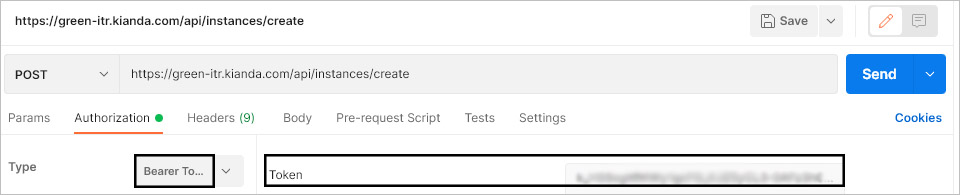
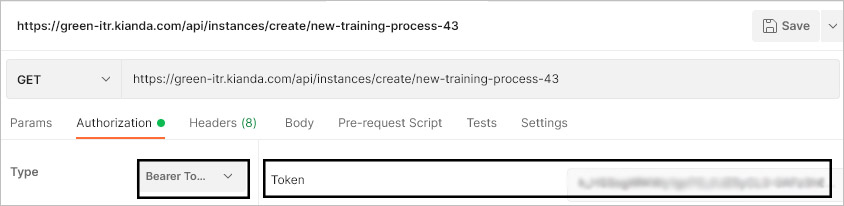
instances page updated

diff --git a/content/docs/apis/instances.md b/content/docs/apis/instances.md
@@ -2,7 +2,7 @@
 title: "Instances API"
 linkTitle: "Instances API"
 weight: 1
-typora-root-url: ..\..\..\..\static
+typora-root-url: ..\..\..\static
 ---
 
 ---
@@ -70,9 +70,9 @@ This request creates a process instance/new record.
 {{domain}}/api/instances/create
 ```
 
-2. Ensure that the **bearer** token is inserted into the authorisation header.
+2. Ensure that the **bearer** token is inserted into the authorisation header, for example to create an instance of a process called 'new-training-process-43' as shown below:
 
-   ![Create instance example](/../content/docs/create-instance.jpg)
+   ![Create instance example](/images/create-instance.jpg)
 
 3. The **Request Body** for the POST request is:
 
